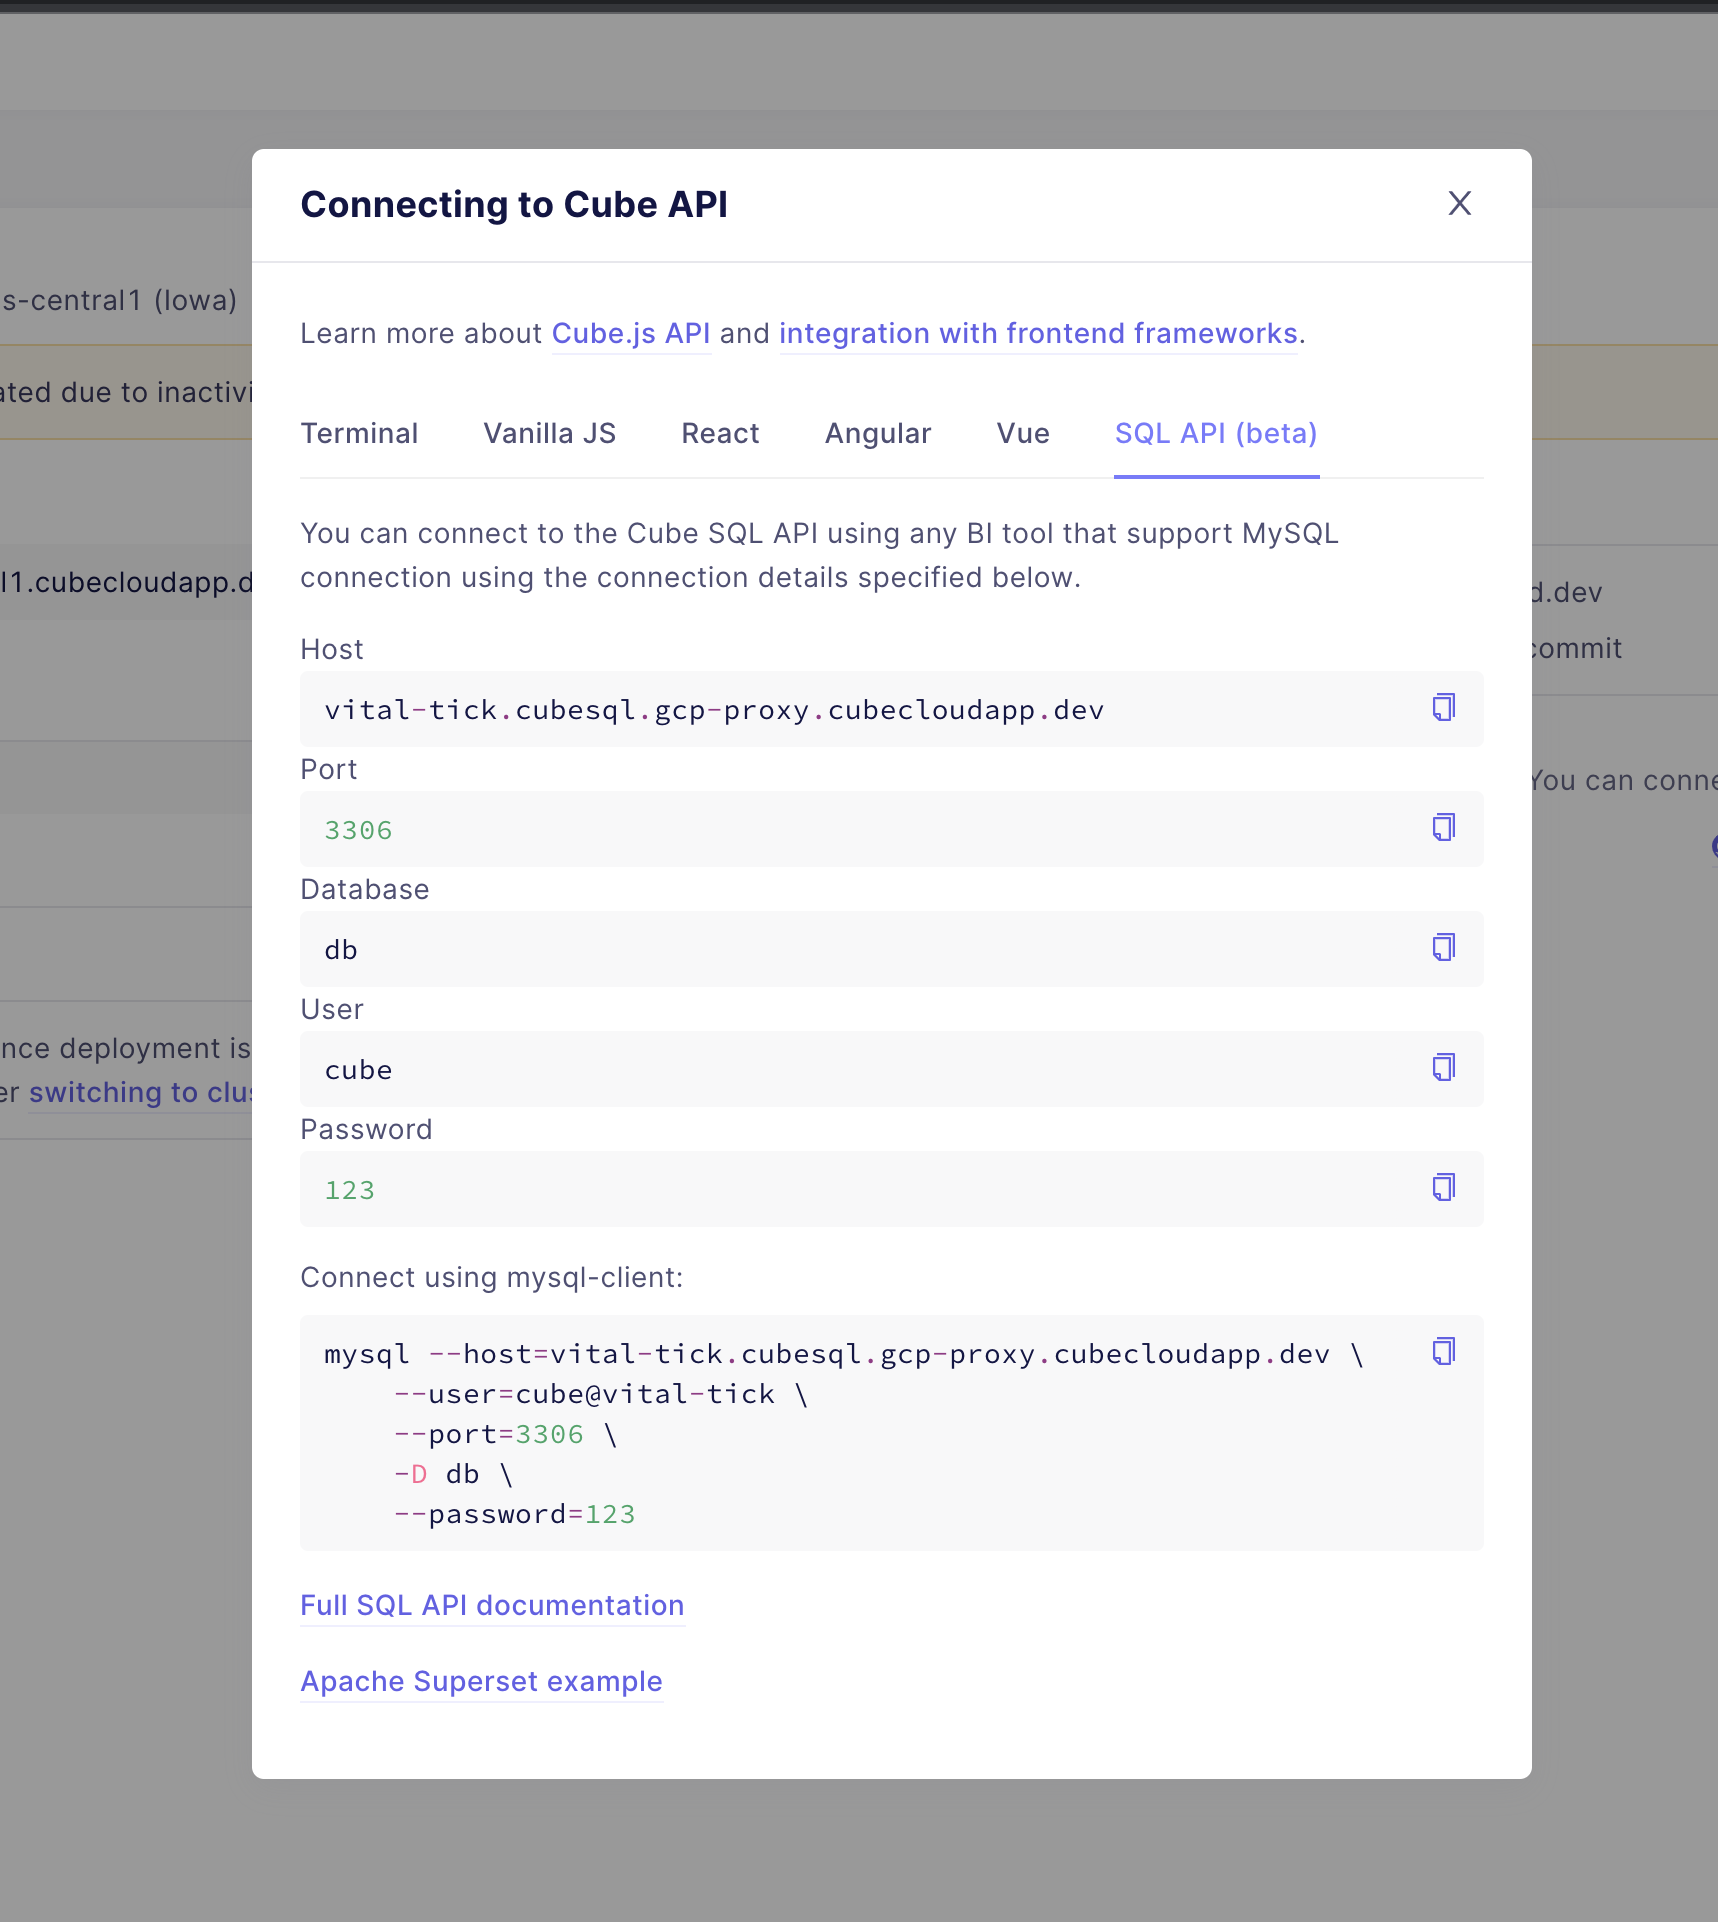
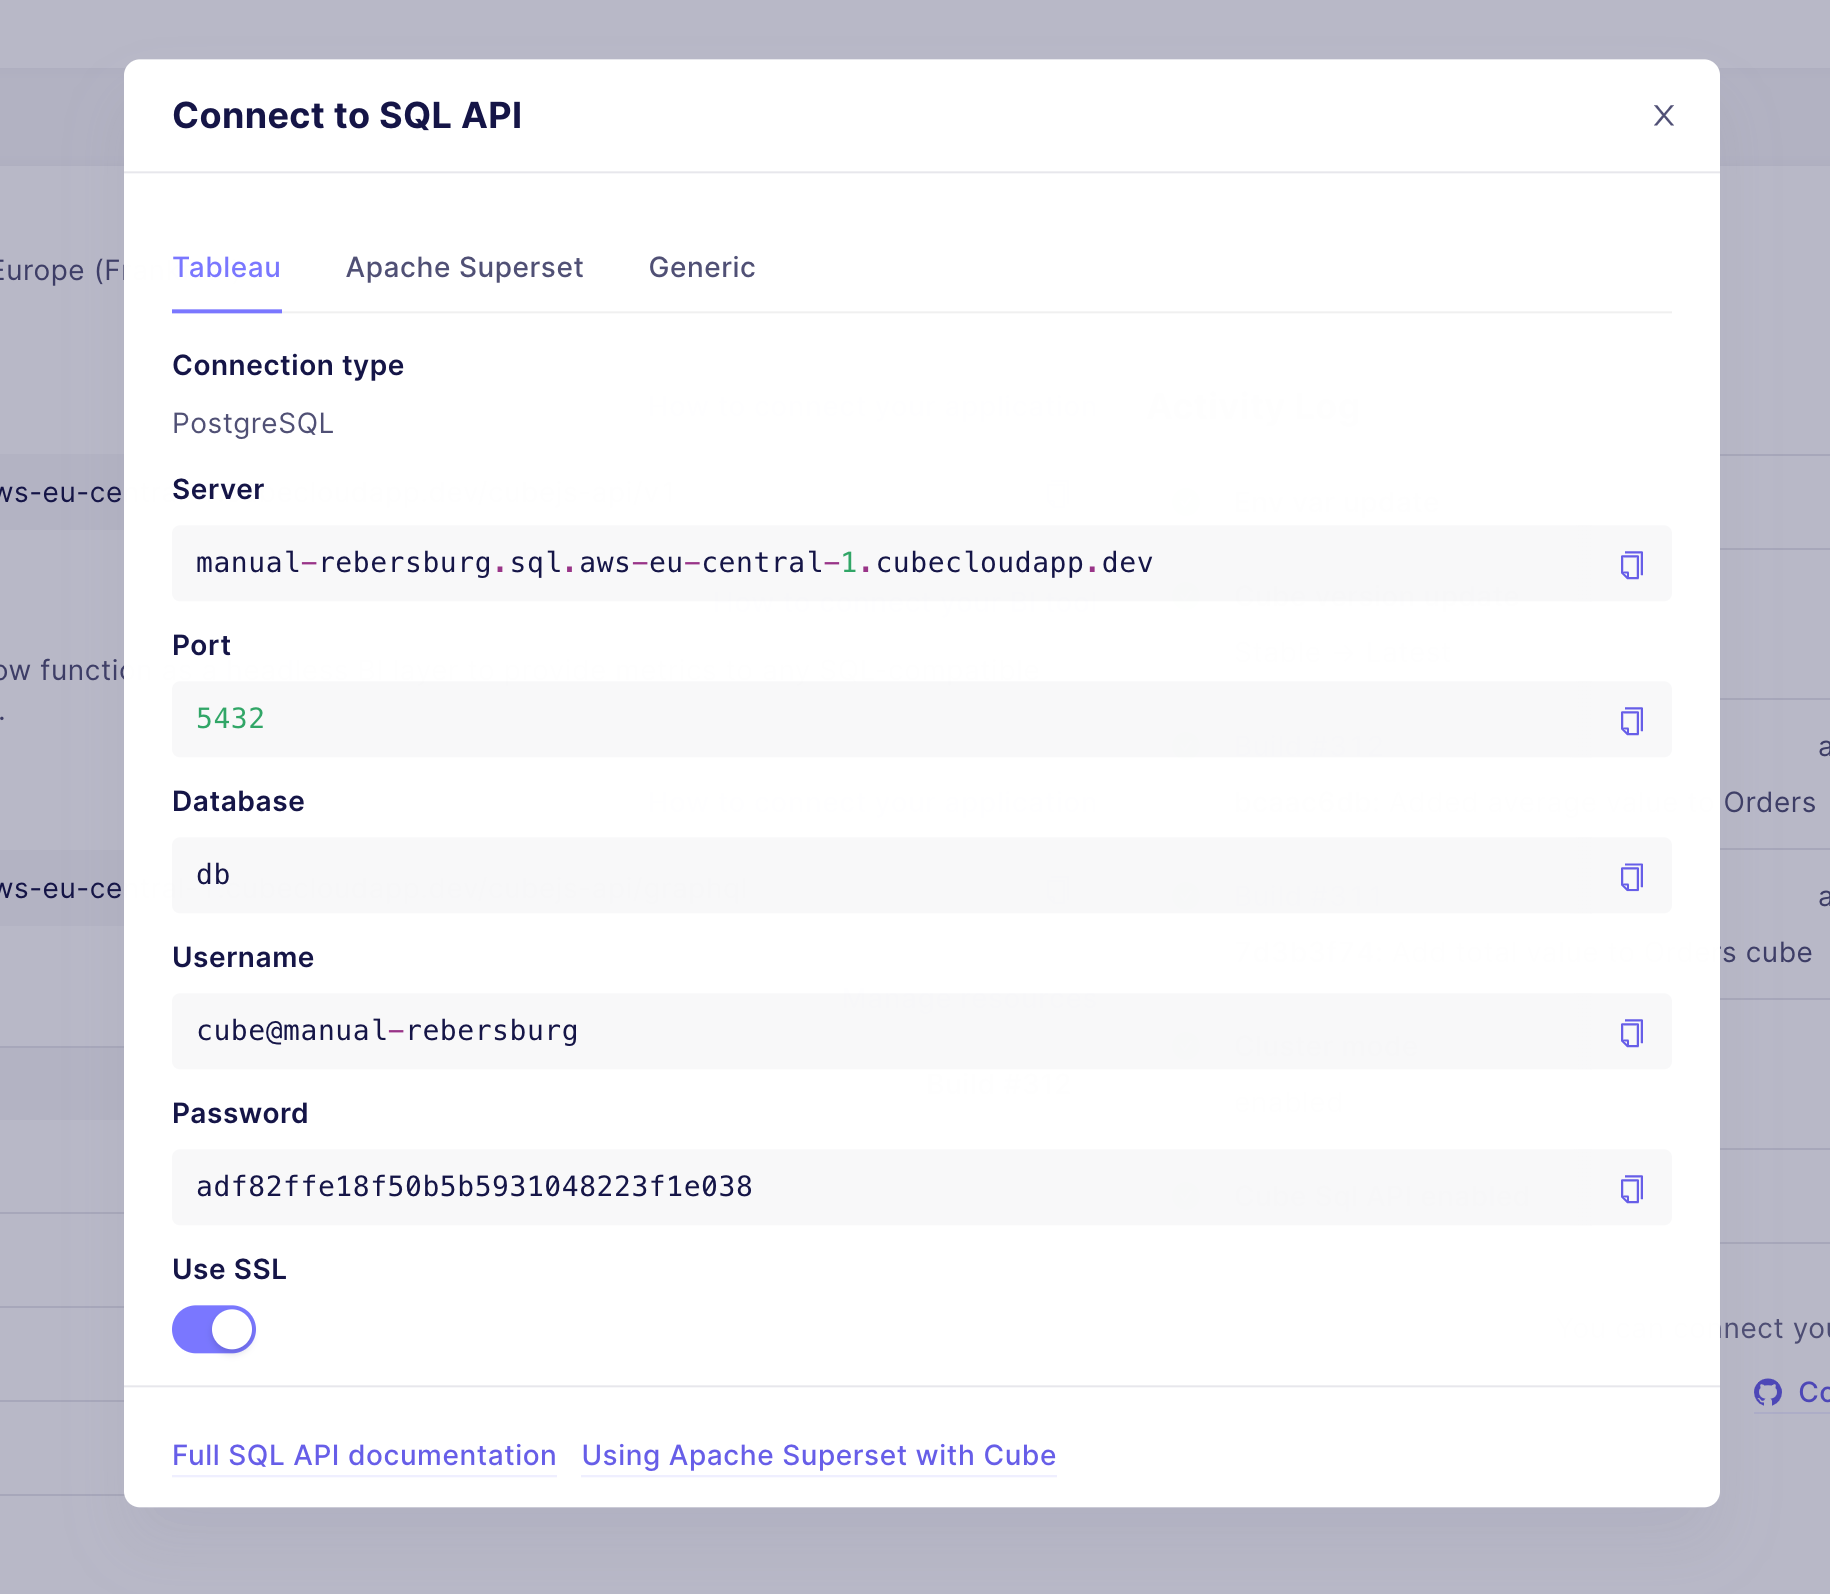
docs: Update SQL API docs (#4587)

diff --git a/docs/content/Configuration/Downstream/Superset.md b/docs/content/Configuration/Downstream/Superset.md
@@ -10,8 +10,6 @@ API. [Apache Superset][superset] is an open-source data exploration and
 visualization platform, commonly used to visualize business metrics and
 performance.
 
-<LoomVideo url="https://www.loom.com/embed/3e85b7fe3fef4c7bbb8b255ad3f2c675" />
-
 ## Enable Cube SQL API
 
 <InfoBox>
@@ -23,13 +21,13 @@ here][ref-getting-started].
 
 ### Cube Cloud
 
-Click **How to connect** link on the Overview page, navigate to the SQL API tab
+Click **How to connect your BI tool** link on the Overview page, navigate to the SQL API tab
 and enable it. Once enabled, you should see the screen like the one below with
 your connection credentials:
 
 <div style="text-align: center">
   <img
-    src="https://raw.githubusercontent.com/cube-js/cube.js/master/docs/content/cube-sql-api-modal.png"
+    src="https://cubedev-blog-images.s3.us-east-2.amazonaws.com/bac4cfb4-d89c-46fa-a7d4-552c2ece4a18.GIF"
     style="border: none"
     width="80%"
   />
@@ -42,12 +40,14 @@ These credentials will be required to connect to Cube from Apache Superset
 later.
 
 ```dotenv
-CUBEJS_SQL_PORT=3306
+CUBEJS_PG_SQL_PORT=5432
 CUBE_SQL_USERNAME=myusername
 CUBE_SQL_PASSWORD=mypassword
 ```
 
 ## Connecting from Superset
+
+Apache Superset connects to Cube as to a Postgres database.
 
 In Apache Superset, go to Data > Databases, then click '+ Database' to add a new
 database:
@@ -61,31 +61,9 @@ database:
   />
 </div>
 
-Pick MySQL from the modal:
+## Querying data
 
-<div style="text-align: center">
-  <img
-    alt="Apache Superset: add new database modal"
-    src="https://raw.githubusercontent.com/cube-js/cube.js/master/docs/content/Configuration/Downstream/apache-superset-2.png"
-    style="border: none"
-    width="100%"
-  />
-</div>
-
-Now enter the Cube SQL API credentials from earlier:
-
-<div style="text-align: center">
-  <img
-    alt="Apache Superset: add database credentials"
-    src="https://raw.githubusercontent.com/cube-js/cube.js/master/docs/content/Configuration/Downstream/apache-superset-3.png"
-    style="border: none"
-    width="100%"
-  />
-</div>
-
-Click 'Connect' and then 'Finish'. Now, we can create a dataset in Superset and
-explore it. The Cube SQL API exposes cubes as tables where both measures and
-dimensions are columns.
+Your cubes will be exposed as tables, where both your measures and dimensions are columns.
 
 Let's use the following Cube data schema:
 
@@ -125,8 +103,6 @@ create datasets based on tables. Let's create one from `Orders` table:
   />
 </div>
 
-## Creating Charts
-
 Now, we can explore this dataset. Let's create a new chart of type line with
 **Orders** dataset.
 
@@ -142,40 +118,7 @@ Now, we can explore this dataset. Let's create a new chart of type line with
 We can select `COUNT(*)` as metric and `created` as time column with time grain
 **month**.
 
-When querying measures in Cube, there is no need to apply aggregate functions to
-them; for example, the following would be a valid query to Cube SQL API:
-
-```sql
-SELECT count FROM Orders;
-```
-
-But because many BI tools generate metrics with aggregate functions, Cube knows
-how to re-write aggregates to measures. The `COUNT(*)` metric is automatically
-generated for every new dataset in Superset. Cube will replace `COUNT(*)` with
-measure of type count in the selected cube:
-
-```sql
---- For our Orders cube
---- this query
-SELECT COUNT(*) FROM Orders;
-
---- is similiar to this
-SELECT count FROM Orders;
-
---- because Cube replaces COUNT(*) with measure of type count in the given cube
-```
-
-You can customize the list of metrics for a dataset in Settings and map cube
-measures to metrics.
-
-<div style="text-align: center">
-  <img
-    alt="Apache Superset: SQL Editor page with successful query"
-    src="https://raw.githubusercontent.com/cube-js/cube.js/master/docs/content/Configuration/Downstream/apache-superset-6.png"
-    style="border: none"
-    width="100%"
-  />
-</div>
+`COUNT(*)` aggregate function is being mapped to measure with type [count](/schema/reference/types-and-formats#measures-types-count) in the cube.
 
 [ref-getting-started]: /cloud/getting-started
 [superset]: https://superset.apache.org/

diff --git a/docs/content/Configuration/Downstream/Tableau.md b/docs/content/Configuration/Downstream/Tableau.md
@@ -1,0 +1,63 @@
+---
+title: Connecting from Tableau
+permalink: /config/downstream/tableau
+---
+
+You can connect to Cube from Tableau, a visual analytics platform, using the [Cube SQL
+API][ref-sql-api].
+
+## Enable Cube SQL API
+
+<InfoBox>
+
+Don't have a Cube project yet? [Learn how to get started
+here][ref-getting-started].
+
+</InfoBox>
+
+### Cube Cloud
+
+Click **How to connect your BI tool** link on the Overview page, navigate to the SQL API tab
+and enable it. Once enabled, you should see the screen like the one below with
+your connection credentials:
+
+<div style="text-align: center">
+  <img
+    src="https://cubedev-blog-images.s3.us-east-2.amazonaws.com/bac4cfb4-d89c-46fa-a7d4-552c2ece4a18.GIF"
+    style="border: none"
+    width="80%"
+  />
+</div>
+
+### Self-hosted Cube
+
+You need to set the following environment variables to enable the Cube SQL API.
+These credentials will be required to connect to Cube from Apache Superset
+later.
+
+```dotenv
+CUBEJS_PG_SQL_PORT=5432
+CUBE_SQL_USERNAME=myusername
+CUBE_SQL_PASSWORD=mypassword
+```
+
+## Connecting from Tableau
+
+Tableau connects to Cube as to a Postgres database.
+
+In Tableau, select PostgreSQL connector and enter credentials from the above
+step.
+
+![adding Cube to Tableau as a SQL data source][ref-connecting-from-tableau]
+
+## Querying data
+
+Your cubes will be exposed as tables, where both your measures and dimensions are columns.
+
+![Cube data in Tableau][ref-querying-from-tableau]
+
+[ref-getting-started]: /cloud/getting-started
+[ref-sql-api]: /backend/sql
+
+[ref-connecting-from-tableau]: https://cubedev-blog-images.s3.us-east-2.amazonaws.com/dc025b24-674f-4f32-ac44-421d546ee676.GIF
+[ref-querying-from-tableau]: https://cubedev-blog-images.s3.us-east-2.amazonaws.com/ea73a998-e2ce-4814-863e-425b4d35860c.gif

diff --git a/docs/content/Configuration/Downstream/PowerBI.md b/docs/content/Configuration/Downstream/PowerBI.md
@@ -1,0 +1,61 @@
+---
+title: Connecting from Power BI
+permalink: /config/downstream/powerbi
+---
+
+<WarningBox heading={`Power BI support is in preview`}>
+
+Power BI support is in preview, not all features and requests may work on this
+point.
+
+</WarningBox>
+
+You can connect to Cube from Power BI, interactive data visualization software product developed by Microsof, using the [Cube SQL
+API][ref-sql-api].
+
+## Enable Cube SQL API
+
+<InfoBox>
+
+Don't have a Cube project yet? [Learn how to get started
+here][ref-getting-started].
+
+</InfoBox>
+
+### Cube Cloud
+
+Click **How to connect your BI tool** link on the Overview page, navigate to the SQL API tab
+and enable it. Once enabled, you should see the screen like the one below with
+your connection credentials:
+
+<div style="text-align: center">
+  <img
+    src="https://cubedev-blog-images.s3.us-east-2.amazonaws.com/bac4cfb4-d89c-46fa-a7d4-552c2ece4a18.GIF"
+    style="border: none"
+    width="80%"
+  />
+</div>
+
+### Self-hosted Cube
+
+You need to set the following environment variables to enable the Cube SQL API.
+These credentials will be required to connect to Cube from Apache Superset
+later.
+
+```dotenv
+CUBEJS_PG_SQL_PORT=5432
+CUBE_SQL_USERNAME=myusername
+CUBE_SQL_PASSWORD=mypassword
+```
+
+## Connecting from Power BI
+
+Power BI connects to Cube as to a Postgres database.
+
+## Querying data
+
+Your cubes will be exposed as tables, where both your measures and dimensions are columns.
+
+
+[ref-getting-started]: /cloud/getting-started
+[ref-sql-api]: /backend/sql
